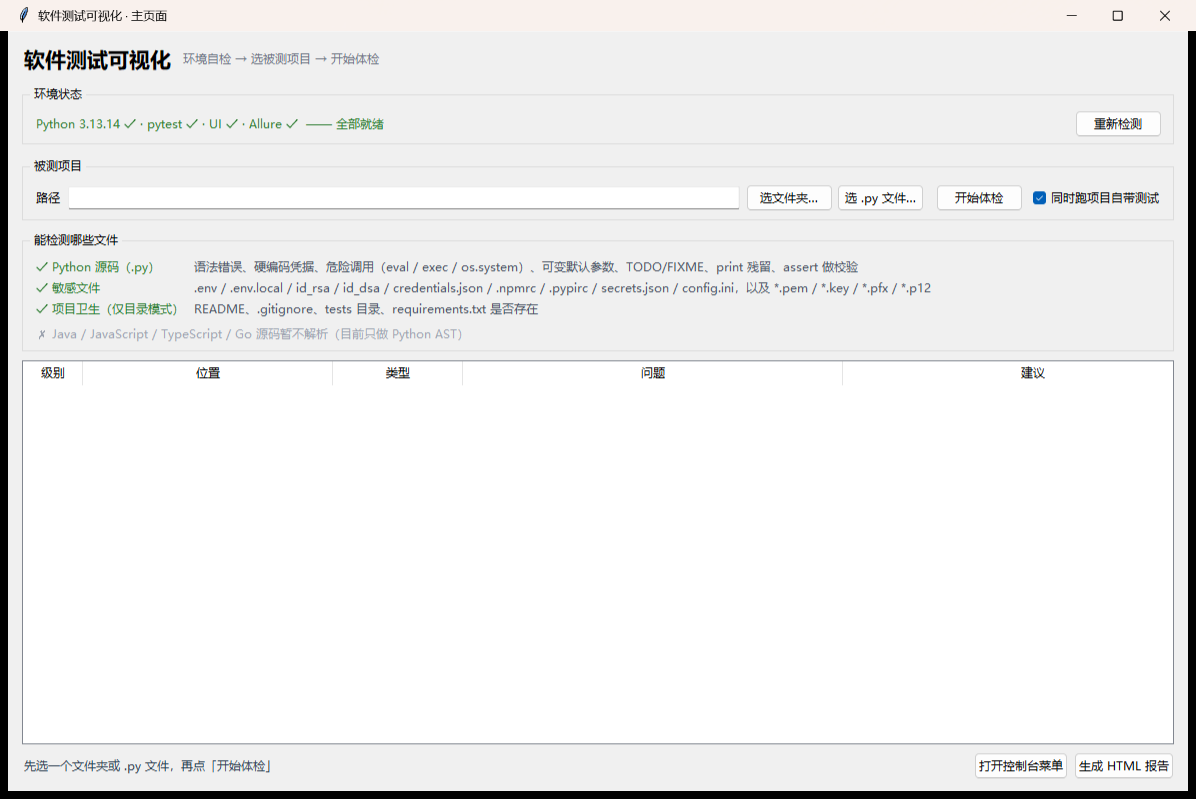
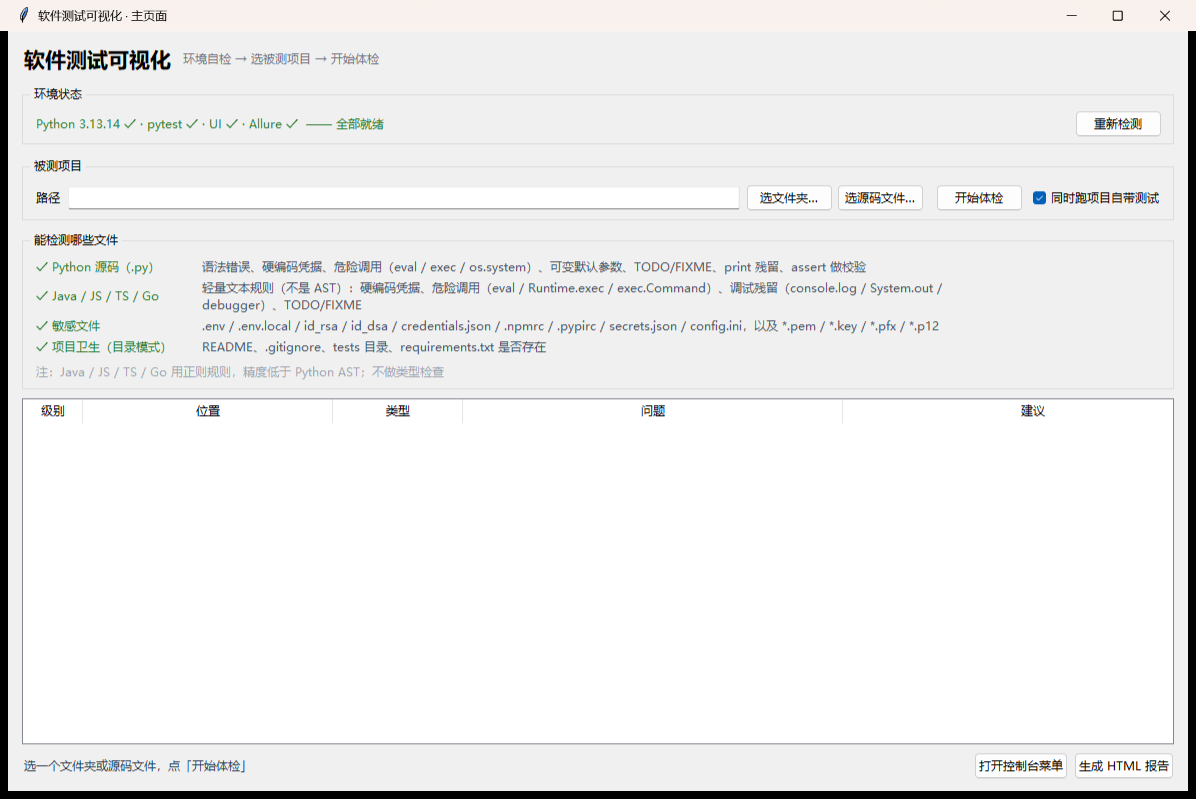
feat: 体检器支持 Java / JS / TS / Go 轻量规则 + 6 条多语言用例

Changed region(s): [[0.0309, 0.3004, 0.99, 0.5407], [0.0, 0.9312, 0.2166, 0.9912], [0.7115, 0.2403, 0.7734, 0.2703]]

diff --git a/scanner.py b/scanner.py
@@ -31,14 +31,50 @@ SKIP_DIRS = {".git", "__pycache__", "node_modules", ".venv", "venv", "dist", "bu
 SUPPORTED = {
     "Python 源码（.py）":
         "语法错误、硬编码凭据、危险调用（eval / exec / os.system）、可变默认参数、TODO/FIXME、print 残留、assert 做校验",
+    "Java / JS / TS / Go":
+        "轻量文本规则（不是 AST）：硬编码凭据、危险调用（eval / Runtime.exec / exec.Command）、"
+        "调试残留（console.log / System.out / debugger）、TODO/FIXME",
     "敏感文件":
         ".env / .env.local / id_rsa / id_dsa / credentials.json / .npmrc / .pypirc / secrets.json / config.ini，"
         "以及 *.pem / *.key / *.pfx / *.p12",
-    "项目卫生（仅目录模式）":
+    "项目卫生（目录模式）":
         "README、.gitignore、tests 目录、requirements.txt 是否存在",
 }
-UNSUPPORTED = "Java / JavaScript / TypeScript / Go 源码暂不解析（目前只做 Python AST）"
+UNSUPPORTED = "Java / JS / TS / Go 用正则规则，精度低于 Python AST；不做类型检查"
 MAX_FILES = 400
+
+# 非 Python 的语言：只做"一眼能看出来的坏味道"，不做语法树
+TEXT_LANGUAGES = {
+    ".java": "Java",
+    ".js": "JavaScript",
+    ".jsx": "JavaScript",
+    ".ts": "TypeScript",
+    ".tsx": "TypeScript",
+    ".go": "Go",
+}
+
+TEXT_RULES = (
+    (re.compile(r"(?i)(password|passwd|secret|token|api_?key|access_?key)\s*[:=]\s*['\"][^'\"]{3,}['\"]"),
+     "高", "硬编码凭据", "代码里直接写了密钥 / 口令", "移到环境变量或配置中心，并确认该文件不进版本库"),
+    (re.compile(r"\beval\s*\("),
+     "高", "危险调用", "eval 会执行任意代码", "改用明确的白名单解析"),
+    (re.compile(r"Runtime\.getRuntime\(\)\.exec"),
+     "高", "危险调用", "通过 shell 执行命令", "改用参数化的进程调用，并校验输入来源"),
+    (re.compile(r"\bexec\.Command\("),
+     "中", "危险调用", "Go 里直接起外部命令", "避免把用户输入拼进命令参数"),
+    (re.compile(r"new\s+Function\s*\("),
+     "中", "危险调用", "new Function 等价于 eval", "改用常规函数定义"),
+    (re.compile(r"console\.(log|debug)\s*\("),
+     "低", "调试残留", "生产代码里有 console 输出", "改用日志库并分级"),
+    (re.compile(r"System\.out\.print"),
+     "低", "调试残留", "生产代码里有打印", "改用日志框架"),
+    (re.compile(r"printStackTrace\s*\("),
+     "低", "调试残留", "直接打印堆栈", "改用日志记录异常"),
+    (re.compile(r"\bdebugger\s*;"),
+     "中", "调试残留", "代码里留了 debugger", "提交前删除"),
+    (re.compile(r"\b(TODO|FIXME|XXX)\b"),
+     "低", "待办标记", "代码里有 TODO/FIXME", "确认没被忘记，交付前清理"),
+)
 
 
 class Finding:
@@ -191,31 +227,55 @@ def scan_python(path, rel_path):
     return visitor.findings
 
 
+def scan_text_code(path, rel_path):
+    """扫一个非 Python 的源码文件（Java / JS / TS / Go）：只做正则规则，不做语法树。"""
+    try:
+        source = path.read_text(encoding="utf-8", errors="replace")
+    except OSError as err:
+        return [Finding(rel_path, 0, "中", "读取失败", str(err), "检查文件权限或编码")]
+
+    language = TEXT_LANGUAGES.get(path.suffix.lower(), "文本")
+    findings = []
+    for number, line in enumerate(source.splitlines(), 1):
+        stripped = line.strip()
+        if stripped.startswith(("//", "/*", "*", "#")):
+            continue
+        for pattern, severity, kind, detail, advice in TEXT_RULES:
+            if pattern.search(line):
+                findings.append(Finding(rel_path, number, severity, f"{kind}（{language}）", detail, advice))
+    return findings
+
+
 def scan_project(root):
     """扫整个项目，返回 (findings, 项目信息)"""
     root = Path(root).resolve()
     if not root.is_dir():
         raise SystemExit(f"目录不存在: {root}")
 
-    files, skipped = [], 0
+    python_files, text_files, skipped = [], [], 0
     for path in sorted(root.rglob("*")):
         if not path.is_file() or any(part in SKIP_DIRS for part in path.parts):
             continue
-        if path.suffix.lower() == ".py":
-            if len(files) >= MAX_FILES:
-                skipped += 1
-                continue
-            files.append(path)
+        suffix = path.suffix.lower()
+        if suffix != ".py" and suffix not in TEXT_LANGUAGES:
+            continue
+        if len(python_files) + len(text_files) >= MAX_FILES:
+            skipped += 1
+            continue
+        (python_files if suffix == ".py" else text_files).append(path)
 
     findings = []
-    for path in files:
+    for path in python_files:
         findings.extend(scan_python(path, path.relative_to(root).as_posix()))
+    for path in text_files:
+        findings.extend(scan_text_code(path, path.relative_to(root).as_posix()))
 
     info = {
         "root": str(root),
-        "python_files": len(files),
+        "python_files": len(python_files),
+        "other_files": len(text_files),
         "skipped_files": skipped,
-        "has_tests": any("test" in p.name.lower() for p in files),
+        "has_tests": any("test" in p.name.lower() for p in python_files),
         "has_requirements": (root / "requirements.txt").exists(),
         "has_readme": any(root.glob("README*")),
         "has_package_json": (root / "package.json").exists(),
@@ -244,17 +304,23 @@ def collect(root, with_tests=True):
     """统一入口。
 
     - 目录模式：静态检查 + 项目级体检 +（可选）跑自带测试并合并失败项；
-    - 单文件模式：只扫这个 .py，不跑项目测试。
+    - 单文件模式：只扫这个文件（.py 走 AST，其他支持的语言走正则），不跑项目测试。
     """
     target = Path(root).resolve()
     if target.is_file():
-        if target.suffix.lower() != ".py":
-            raise SystemExit(f"暂不支持这个文件类型：{target.suffix or '无后缀'}（只支持 .py）")
-        findings = scan_python(target, target.name)
+        suffix = target.suffix.lower()
+        if suffix == ".py":
+            findings = scan_python(target, target.name)
+        elif suffix in TEXT_LANGUAGES:
+            findings = scan_text_code(target, target.name)
+        else:
+            supported = "、".join([".py", *sorted(TEXT_LANGUAGES)])
+            raise SystemExit(f"暂不支持这个文件类型：{suffix or '无后缀'}（支持 {supported}）")
         findings.sort(key=lambda f: (SEVERITY_ORDER[f.severity], f.path, f.line))
         info = {
             "root": str(target.parent),
-            "python_files": 1,
+            "python_files": 1 if suffix == ".py" else 0,
+            "other_files": 0 if suffix == ".py" else 1,
             "skipped_files": 0,
             "has_tests": False,
             "has_requirements": (target.parent / "requirements.txt").exists(),

diff --git a/tester_gui.py b/tester_gui.py
@@ -39,7 +39,7 @@ class App:
         root.minsize(960, 640)
 
         self.target = tk.StringVar(value="")
-        self.status = tk.StringVar(value="选一个文件夹或 .py 文件，点「开始体检」")
+        self.status = tk.StringVar(value="选一个文件夹或源码文件，点「开始体检」")
         self.env_text = tk.StringVar(value="正在检测环境…")
 
         self._build_header()
@@ -73,7 +73,7 @@ class App:
         ttk.Label(row, text="路径").pack(side="left")
         ttk.Entry(row, textvariable=self.target).pack(side="left", fill="x", expand=True, padx=6)
         ttk.Button(row, text="选文件夹…", command=self.pick_folder).pack(side="left")
-        ttk.Button(row, text="选 .py 文件…", command=self.pick_file).pack(side="left", padx=4)
+        ttk.Button(row, text="选源码文件…", command=self.pick_file).pack(side="left", padx=4)
         self.btn_scan = ttk.Button(row, text="开始体检", command=self.start)
         self.btn_scan.pack(side="left", padx=8)
         self.run_tests = tk.BooleanVar(value=True)
@@ -85,9 +85,9 @@ class App:
         for name, detail in scanner.SUPPORTED.items():
             line = ttk.Frame(box)
             line.pack(fill="x", anchor="w")
-            ttk.Label(line, text=f"✓ {name}", foreground=COLOR["ok"], width=22).pack(side="left")
-            ttk.Label(line, text=detail, foreground="#4b5563", wraplength=900, justify="left").pack(side="left", fill="x")
-        ttk.Label(box, text=f"✗ {scanner.UNSUPPORTED}", foreground="#9ca3af").pack(anchor="w", pady=(4, 0))
+            ttk.Label(line, text=f"✓ {name}", foreground=COLOR["ok"], width=22).pack(side="left", padx=(0, 8))
+            ttk.Label(line, text=detail, foreground="#4b5563", wraplength=880, justify="left").pack(side="left", fill="x")
+        ttk.Label(box, text=f"注：{scanner.UNSUPPORTED}", foreground="#9ca3af").pack(anchor="w", pady=(4, 0))
 
     def _build_table(self):
         box = ttk.Frame(self.root, padding=(14, 4, 14, 0))
@@ -156,8 +156,15 @@ class App:
 
     def pick_file(self):
         chosen = filedialog.askopenfilename(
-            title="选择要体检的 Python 文件",
-            filetypes=[("Python 源码", "*.py"), ("所有文件", "*.*")],
+            title="选择要体检的源码文件",
+            filetypes=[
+                ("支持的类型", "*.py *.java *.js *.jsx *.ts *.tsx *.go"),
+                ("Python", "*.py"),
+                ("Java", "*.java"),
+                ("JavaScript / TypeScript", "*.js *.jsx *.ts *.tsx"),
+                ("Go", "*.go"),
+                ("所有文件", "*.*"),
+            ],
         )
         if chosen:
             self.target.set(chosen)
@@ -165,14 +172,15 @@ class App:
     def start(self):
         target = self.target.get().strip()
         if not target:
-            messagebox.showinfo("还没选目标", "先选一个文件夹或 .py 文件。")
+            messagebox.showinfo("还没选目标", "先选一个文件夹或源码文件。")
             return
         path = Path(target)
         if not path.exists():
             messagebox.showerror("路径不存在", target)
             return
-        if path.is_file() and path.suffix.lower() != ".py":
-            messagebox.showerror("暂不支持", f"{path.suffix or '无后缀'} 文件暂不支持，目前只解析 .py。")
+        allowed = {".py", *scanner.TEXT_LANGUAGES}
+        if path.is_file() and path.suffix.lower() not in allowed:
+            messagebox.showerror("暂不支持", f"{path.suffix or '无后缀'} 暂不支持，可扫描：{', '.join(sorted(allowed))}")
             return
         self.btn_scan.config(state="disabled")
         self.status.set("正在扫描…")
@@ -198,7 +206,12 @@ class App:
                 item.severity, f"{item.path}:{item.line}", item.kind, item.detail, item.advice,
             ), tags=(item.severity,))
         counts = {level: sum(1 for x in findings if x.severity == level) for level in ("高", "中", "低")}
-        scope = f"单文件 {info.get('target_file')}" if info.get("target_file") else f"{info['python_files']} 个 Python 文件"
+        if info.get("target_file"):
+            scope = f"单文件 {info['target_file']}"
+        else:
+            scope = f"{info['python_files']} 个 Python 文件"
+            if info.get("other_files"):
+                scope += f" + {info['other_files']} 个其他源码"
         test_note = (f" · 自带测试：{test_result['summary']}" if test_result.get("ran")
                      else f" · 自带测试未运行（{test_result.get('reason', '未选择')}）")
         self.status.set(f"已扫描 {scope} · 高危 {counts['高']} / 中危 {counts['中']} / 低危 {counts['低']}{test_note}")

diff --git a/tests/test_scanner_extra.py b/tests/test_scanner_extra.py
@@ -1,0 +1,83 @@
+"""体检器对多语言的支持：Python 走 AST，Java / JS / TS / Go 走轻量正则规则。
+
+这组用例证明两件事：
+  1. 非 Python 的源码也能扫出"硬编码凭据 / 危险调用 / 调试残留"；
+  2. 干净文件不会误报（有规则不等于乱报）。
+"""
+
+import allure
+
+import scanner
+
+pytestmark = allure.feature("体检器 · 多语言")
+
+
+def write(path, text):
+    path.write_text(text, encoding="utf-8")
+    return path
+
+
+def test_java_hardcoded_password_and_exec(tmp_path):
+    target = write(tmp_path / "Demo.java", (
+        'class Demo {\n'
+        '    String password = "hunter2";\n'
+        '    void run() { Runtime.getRuntime().exec(cmd); }\n'
+        '}\n'
+    ))
+    findings, info, _ = scanner.collect(str(target), with_tests=False)
+
+    kinds = [item.kind for item in findings]
+    assert "硬编码凭据（Java）" in kinds
+    assert "危险调用（Java）" in kinds
+    assert info["target_file"] == "Demo.java"
+
+
+def test_javascript_console_and_eval(tmp_path):
+    target = write(tmp_path / "app.js", (
+        'const token = "abcdef123";\n'
+        'console.log("debug");\n'
+        'eval(userInput);\n'
+    ))
+    findings, _, _ = scanner.collect(str(target), with_tests=False)
+    kinds = [item.kind for item in findings]
+
+    assert "硬编码凭据（JavaScript）" in kinds
+    assert "调试残留（JavaScript）" in kinds
+    assert "危险调用（JavaScript）" in kinds
+
+
+def test_go_exec_command(tmp_path):
+    target = write(tmp_path / "main.go", (
+        'package main\n'
+        'import "os/exec"\n'
+        'func main() { exec.Command("ls") }\n'
+    ))
+    findings, _, _ = scanner.collect(str(target), with_tests=False)
+    assert any(item.kind == "危险调用（Go）" for item in findings)
+
+
+def test_clean_typescript_has_no_findings(tmp_path):
+    target = write(tmp_path / "math.ts", "export const add = (a: number, b: number) => a + b;\n")
+    findings, _, _ = scanner.collect(str(target), with_tests=False)
+    assert findings == []
+
+
+def test_project_mode_counts_languages(tmp_path):
+    write(tmp_path / "a.py", "value = 1\n")
+    write(tmp_path / "b.js", "export const x = 1;\n")
+    write(tmp_path / "c.go", "package main\n")
+    write(tmp_path / "ignore.txt", "not source\n")
+
+    _, info, _ = scanner.collect(str(tmp_path), with_tests=False)
+    assert info["python_files"] == 1
+    assert info["other_files"] == 2
+
+
+def test_unsupported_extension_is_rejected(tmp_path):
+    target = write(tmp_path / "notes.txt", "hello\n")
+    try:
+        scanner.collect(str(target), with_tests=False)
+    except SystemExit as error:
+        assert ".py" in str(error)
+    else:
+        raise AssertionError("未知后缀应当被拒绝")

diff --git a/README.md b/README.md
@@ -1,6 +1,6 @@
 # 软件测试可视化
 
-接口自动化 + UI 自动化练习项目：**pytest + requests + Playwright**，接口 92 个用例、UI 9 个用例，覆盖正常流程、异常边界、并发安全、契约规则、角色越权、分页边界、库存超卖、幂等重放、性能基线、浏览器端主流程（含房型与库存），并自带零依赖的指标工具（报告 / 覆盖率 / 性能 / 失败现场留存）。
+接口自动化 + UI 自动化练习项目：**pytest + requests + Playwright**，接口 98 个用例、UI 9 个用例，覆盖正常流程、异常边界、并发安全、契约规则、角色越权、分页边界、库存超卖、幂等重放、性能基线、浏览器端主流程（含房型与库存），并自带零依赖的指标工具（报告 / 覆盖率 / 性能 / 失败现场留存）。
 
 配套文档：**[测试方案](docs/测试方案.md)**（范围 / 策略 / 等价类 / 边界值 / 判定表 / 用例清单）、**[缺陷记录](docs/缺陷记录.md)**（7 个缺陷的完整缺陷单）。
 
@@ -20,9 +20,10 @@
 | 类型 | 检测内容 |
 |---|---|
 | Python 源码 `.py` | 语法错误、硬编码凭据、危险调用（eval / exec / os.system）、可变默认参数、TODO/FIXME、print 残留、assert 做校验 |
+| Java / JavaScript / TypeScript / Go | 轻量文本规则（非 AST）：硬编码凭据、危险调用（eval / Runtime.exec / exec.Command）、调试残留（console.log / System.out / debugger）、TODO/FIXME |
 | 敏感文件 | `.env` / `id_rsa` / `credentials.json` / `.npmrc` / `.pypirc` / `secrets.json` / `config.ini`、`*.pem` `*.key` `*.pfx` `*.p12` |
-| 项目卫生（目录模式） | README、`.gitignore`、tests 目录、`requirements.txt` 是否存在 |
-| 暂不支持 | Java / JavaScript / TypeScript / Go 源码（目前只解析 Python AST） |
+| 项目卫生（仅目录模式） | README、`.gitignore`、tests 目录、`requirements.txt` 是否存在 |
+| 说明 | Java / JS / TS / Go 用正则规则，精度低于 Python AST；不做类型检查 |
 
 > 所有 `.bat` 都是**纯 ASCII 启动器**，只负责调用 Python 脚本；中文提示由 Python 输出。
 > 原因是 cmd 会用控制台代码页（936）读取批处理，UTF-8 中文一旦跨读取缓冲区就会裂开，
@@ -112,9 +113,9 @@ Windows 上也可以双击 `运行测试.bat`。
 实测输出：
 
 ```
-collected 92 items
+collected 98 items
 ...
-==================== 89 passed, 3 skipped in 2.60s ====================
+==================== 95 passed, 3 skipped in 1.50s ====================
 ```
 
 （跳过的 3 个是 `test_my_api_template.py` 里的模板用例，删掉 `@pytest.mark.skip` 就会执行。）
@@ -142,7 +143,7 @@ python -m pytest ui_tests -q
 | 并发 | 10 线程并发建 30 条不重号、不丢数据、改不同单子互不干扰、重复删除只成功一次、健康检查延迟 < 200ms |
 | UI | 页面加载、登录解锁创建、创建后列表可见、空名字显示后端错误、改价、删除、房型选择与库存显示、售罄提示 |
 
-**参数化用例**（`@pytest.mark.parametrize`）一个函数覆盖多个边界值，所以 101 个用例其实只用了 83 个测试函数。
+**参数化用例**（`@pytest.mark.parametrize`）一个函数覆盖多个边界值，所以 107 个用例其实只用了 89 个测试函数。
 
 ## 几个值得注意的设计
 

diff --git a/CHANGELOG.md b/CHANGELOG.md
@@ -1,5 +1,17 @@
 # 更新日志
 
+## v1.0.4 — 2026-11-04
+
+**体检器支持更多语言**
+
+- 新增 Java / JavaScript / TypeScript / Go 的**轻量文本规则**（不是 AST）：
+  硬编码凭据、危险调用（eval / Runtime.exec / exec.Command / new Function）、
+  调试残留（console.log / System.out / printStackTrace / debugger）、TODO/FIXME
+- 单文件模式现在可以选 `.java` / `.js` / `.jsx` / `.ts` / `.tsx` / `.go`
+- 目录模式会同时统计 Python 与其它源码，界面上显示「N 个 Python 文件 + M 个其他源码」
+- 新增 6 条体检器用例（多语言命中、干净文件不误报、目录模式计数、未知后缀拒绝）
+- 能力边界写清楚：这些语言用正则规则，**精度低于 Python AST，不做类型检查**（界面用「注：」标注，不再显示"不支持"）
+
 ## v1.0.3 — 2026-11-04
 
 **打开就是主页面**

diff --git a/docs/测试方案.md b/docs/测试方案.md
@@ -70,7 +70,7 @@
 | — 专项 | 性能基线（并发梯度 p95/p99） | `perf_load.py` | — | CI 附加关（不阻断） |
 | — 联网 | 真实公开 API 冒烟（dummyjson） | `live_tests/` | 10 | 手动 / 双击 bat（默认跳过） |
 
-合计 **101 个用例**：接口侧 92 个（89 执行 + 3 个模板跳过）、UI 侧 9 个。另有 10 条联网用例，不计入默认回归。
+合计 **107 个用例**：接口侧 98 个（95 执行 + 3 个模板跳过）、UI 侧 9 个。另有 10 条联网用例，不计入默认回归。
 
 **为什么这么分**：越往下越便宜、反馈越快。静态检查 1 秒内跑完，能拦语法错；冒烟 0.5 秒，能拦服务挂；全量 3 秒；UI 层 3 秒但要浏览器。CI 里按这个顺序阻断，前面挂了就不浪费后面的时间。
 
